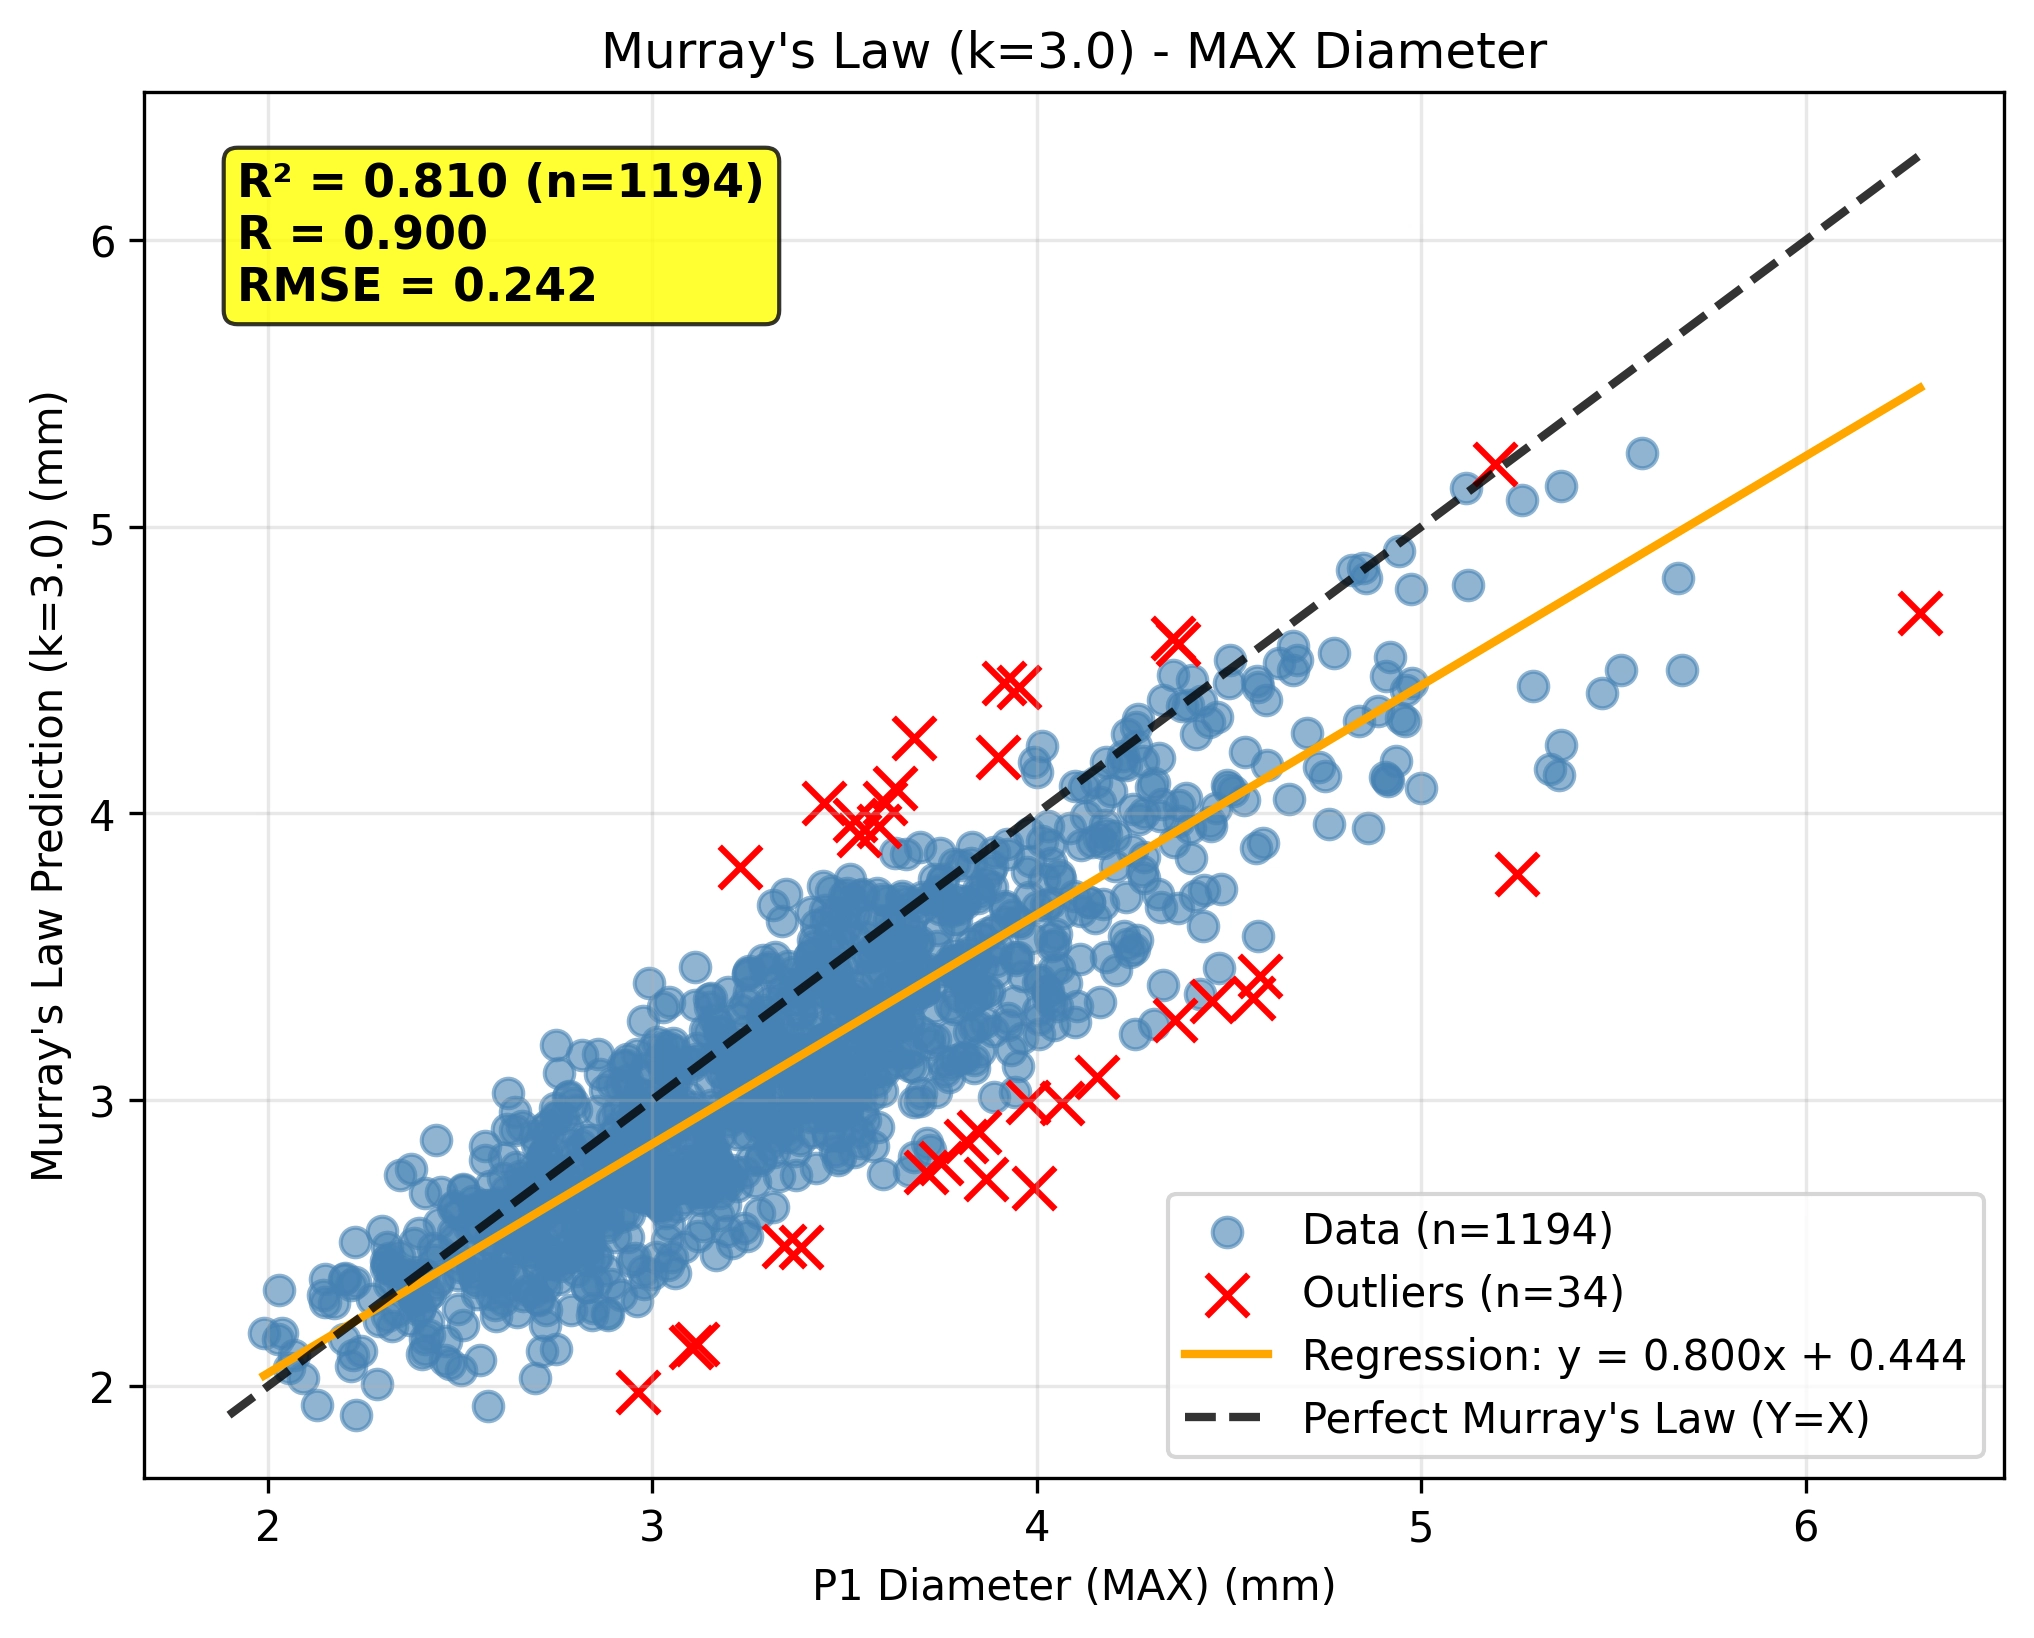
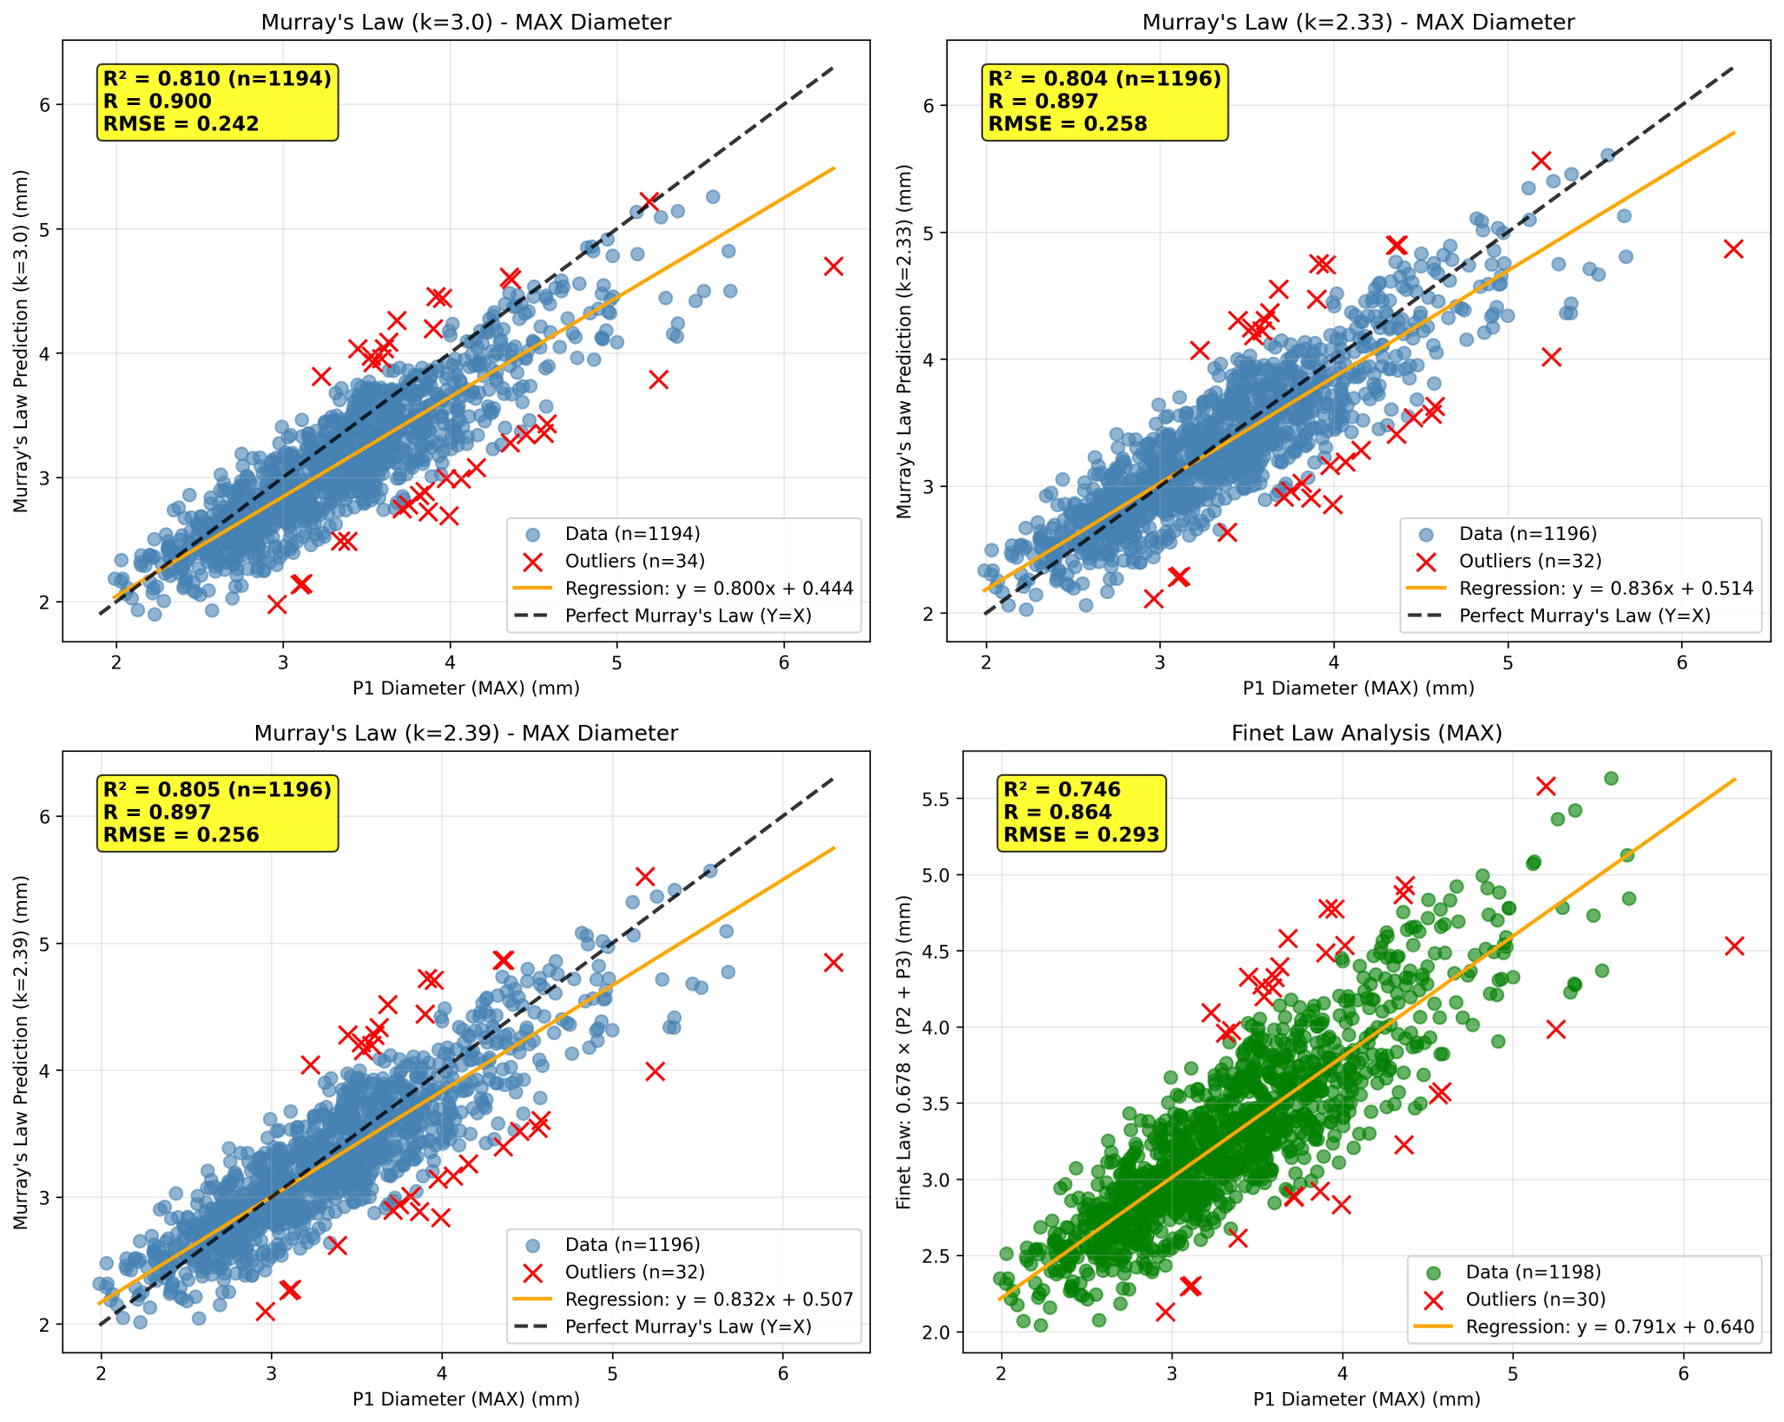
feat: add read-more toggle to project cards, always-visible images

diff --git a/src/components/Projects.tsx b/src/components/Projects.tsx
@@ -1,6 +1,124 @@
-import { ArrowUpRight, Users } from 'lucide-react';
+import { useState } from 'react';
+import { ArrowUpRight, Users, ChevronDown, ChevronUp } from 'lucide-react';
 import { projects } from '../data';
 import { useReveal, revealClass } from '../hooks/useReveal';
+
+const PREVIEW_LENGTH = 160;
+
+function ProjectCard({ p }: { p: (typeof projects)[number] }) {
+  const [expanded, setExpanded] = useState(false);
+  const isLong = p.description.length > PREVIEW_LENGTH;
+  const displayText =
+    isLong && !expanded
+      ? p.description.slice(0, PREVIEW_LENGTH).trimEnd() + '…'
+      : p.description;
+
+  return (
+    <article className="group relative flex flex-col overflow-hidden rounded-2xl border border-ink-200 bg-white p-6 transition-all duration-300 hover:-translate-y-0.5 hover:border-indigo-300 hover:shadow-[0_18px_40px_-22px_rgba(79,70,229,0.35)] dark:border-ink-800 dark:bg-ink-900 dark:hover:border-indigo-600 dark:hover:shadow-[0_18px_40px_-22px_rgba(99,102,241,0.5)]">
+      {/* Architecture / metrics placeholder */}
+      <div className="relative mb-5 h-28 overflow-hidden rounded-lg bg-gradient-to-br from-indigo-50 via-white to-ink-100 ring-1 ring-ink-200/60 dark:from-indigo-500/15 dark:via-ink-900 dark:to-ink-800 dark:ring-ink-700/60">
+        <div
+          className="absolute inset-0 opacity-[0.08] dark:opacity-[0.18]"
+          style={{
+            backgroundImage:
+              'linear-gradient(to right, #4f46e5 1px, transparent 1px), linear-gradient(to bottom, #4f46e5 1px, transparent 1px)',
+            backgroundSize: '16px 16px',
+          }}
+        />
+        {p.metrics && (
+          <div className="absolute inset-0 flex items-center justify-around px-4">
+            {p.metrics.map((m) => (
+              <div key={m.label} className="text-center">
+                <div className="font-serif text-lg font-semibold text-ink-900 dark:text-ink-50">
+                  {m.value}
+                </div>
+                <div className="mt-0.5 text-[10px] uppercase tracking-wider text-ink-500 dark:text-ink-400">
+                  {m.label}
+                </div>
+              </div>
+            ))}
+          </div>
+        )}
+      </div>
+
+      <h3 className="font-serif text-lg font-semibold leading-snug text-ink-900 dark:text-ink-50">
+        {p.title}
+      </h3>
+      {p.subtitle && (
+        <p className="mt-0.5 text-sm text-ink-500 dark:text-ink-400">{p.subtitle}</p>
+      )}
+
+      {p.collaboration && (
+        <p className="mt-3 inline-flex items-center gap-1.5 text-xs font-medium text-indigo-700 dark:text-indigo-400">
+          <Users size={12} />
+          {p.collaboration}
+        </p>
+      )}
+
+      {p.imageUrl && (
+        <figure className="project-img-figure">
+          <img
+            src={p.imageUrl}
+            alt={p.imageCaption ?? p.title}
+            className="project-img"
+            loading="lazy"
+            decoding="async"
+          />
+          {p.imageCaption && (
+            <figcaption className="project-img-caption">
+              {p.imageCaption}
+            </figcaption>
+          )}
+        </figure>
+      )}
+
+      <p className="mt-3 text-sm leading-relaxed text-ink-600 dark:text-ink-400">
+        {displayText}
+      </p>
+
+      {isLong && (
+        <button
+          onClick={() => setExpanded((v) => !v)}
+          className="mt-1.5 inline-flex items-center gap-0.5 text-xs font-medium text-indigo-600 hover:text-indigo-800 dark:text-indigo-400 dark:hover:text-indigo-300"
+        >
+          {expanded ? (
+            <><ChevronUp size={13} /> Show less</>
+          ) : (
+            <><ChevronDown size={13} /> Read more</>
+          )}
+        </button>
+      )}
+
+      <div className="mt-4 flex flex-wrap gap-1.5">
+        {p.stack.map((s) => (
+          <span
+            key={s}
+            className="rounded-md bg-ink-100 px-2 py-0.5 font-mono text-[10.5px] text-ink-700 dark:bg-ink-800 dark:text-ink-300"
+          >
+            {s}
+          </span>
+        ))}
+      </div>
+
+      {p.links && p.links.length > 0 && (
+        <div className="mt-5 flex flex-wrap gap-x-4 gap-y-1 border-t border-ink-100 pt-4 dark:border-ink-800">
+          {p.links.map((l) => (
+            <a
+              key={l.label}
+              href={l.href}
+              target="_blank"
+              rel="noreferrer"
+              className="inline-flex items-center gap-1 text-xs font-medium text-indigo-700 transition-colors duration-200 hover:text-indigo-900 dark:text-indigo-400 dark:hover:text-indigo-300"
+            >
+              {l.label}
+              <ArrowUpRight size={12} />
+            </a>
+          ))}
+        </div>
+      )}
+    </article>
+  );
+}
 
 export default function Projects() {
   const { ref, visible } = useReveal<HTMLDivElement>();
@@ -19,99 +137,7 @@ export default function Projects() {
 
         <div className="mt-12 grid grid-cols-1 gap-6 md:grid-cols-2 lg:grid-cols-3">
           {projects.map((p) => (
-            <article
-              key={p.id}
-              className="group relative flex flex-col overflow-hidden rounded-2xl border border-ink-200 bg-white p-6 transition-all duration-300 hover:-translate-y-0.5 hover:border-indigo-300 hover:shadow-[0_18px_40px_-22px_rgba(79,70,229,0.35)] dark:border-ink-800 dark:bg-ink-900 dark:hover:border-indigo-600 dark:hover:shadow-[0_18px_40px_-22px_rgba(99,102,241,0.5)]"
-            >
-              {/* Architecture / metrics placeholder */}
-              <div className="relative mb-5 h-28 overflow-hidden rounded-lg bg-gradient-to-br from-indigo-50 via-white to-ink-100 ring-1 ring-ink-200/60 dark:from-indigo-500/15 dark:via-ink-900 dark:to-ink-800 dark:ring-ink-700/60">
-                <div
-                  className="absolute inset-0 opacity-[0.08] dark:opacity-[0.18]"
-                  style={{
-                    backgroundImage:
-                      'linear-gradient(to right, #4f46e5 1px, transparent 1px), linear-gradient(to bottom, #4f46e5 1px, transparent 1px)',
-                    backgroundSize: '16px 16px',
-                  }}
-                />
-                {p.metrics && (
-                  <div className="absolute inset-0 flex items-center justify-around px-4">
-                    {p.metrics.map((m) => (
-                      <div key={m.label} className="text-center">
-                        <div className="font-serif text-lg font-semibold text-ink-900 dark:text-ink-50">
-                          {m.value}
-                        </div>
-                        <div className="mt-0.5 text-[10px] uppercase tracking-wider text-ink-500 dark:text-ink-400">
-                          {m.label}
-                        </div>
-                      </div>
-                    ))}
-                  </div>
-                )}
-              </div>
-
-              <h3 className="font-serif text-lg font-semibold leading-snug text-ink-900 dark:text-ink-50">
-                {p.title}
-              </h3>
-              {p.subtitle && (
-                <p className="mt-0.5 text-sm text-ink-500 dark:text-ink-400">{p.subtitle}</p>
-              )}
-
-              {p.collaboration && (
-                <p className="mt-3 inline-flex items-center gap-1.5 text-xs font-medium text-indigo-700 dark:text-indigo-400">
-                  <Users size={12} />
-                  {p.collaboration}
-                </p>
-              )}
-
-              <p className="mt-3 flex-1 text-sm leading-relaxed text-ink-600 dark:text-ink-400">
-                {p.description}
-              </p>
-
-              {p.imageUrl && (
-                <figure className="project-img-figure">
-                  <img
-                    src={p.imageUrl}
-                    alt={p.imageCaption ?? p.title}
-                    className="project-img"
-                    loading="lazy"
-                    decoding="async"
-                  />
-                  {p.imageCaption && (
-                    <figcaption className="project-img-caption">
-                      {p.imageCaption}
-                    </figcaption>
-                  )}
-                </figure>
-              )}
-
-              <div className="mt-4 flex flex-wrap gap-1.5">
-                {p.stack.map((s) => (
-                  <span
-                    key={s}
-                    className="rounded-md bg-ink-100 px-2 py-0.5 font-mono text-[10.5px] text-ink-700 dark:bg-ink-800 dark:text-ink-300"
-                  >
-                    {s}
-                  </span>
-                ))}
-              </div>
-
-              {p.links && p.links.length > 0 && (
-                <div className="mt-5 flex flex-wrap gap-x-4 gap-y-1 border-t border-ink-100 pt-4 dark:border-ink-800">
-                  {p.links.map((l) => (
-                    <a
-                      key={l.label}
-                      href={l.href}
-                      target="_blank"
-                      rel="noreferrer"
-                      className="inline-flex items-center gap-1 text-xs font-medium text-indigo-700 transition-colors duration-200 hover:text-indigo-900 dark:text-indigo-400 dark:hover:text-indigo-300"
-                    >
-                      {l.label}
-                      <ArrowUpRight size={12} />
-                    </a>
-                  ))}
-                </div>
-              )}
-            </article>
+            <ProjectCard key={p.id} p={p} />
           ))}
         </div>
       </div>